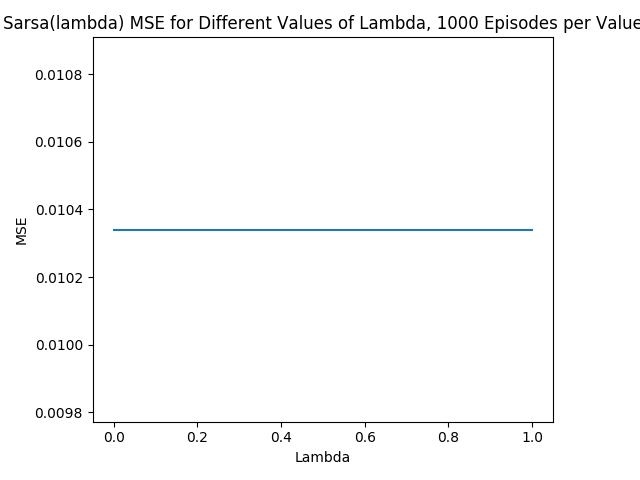
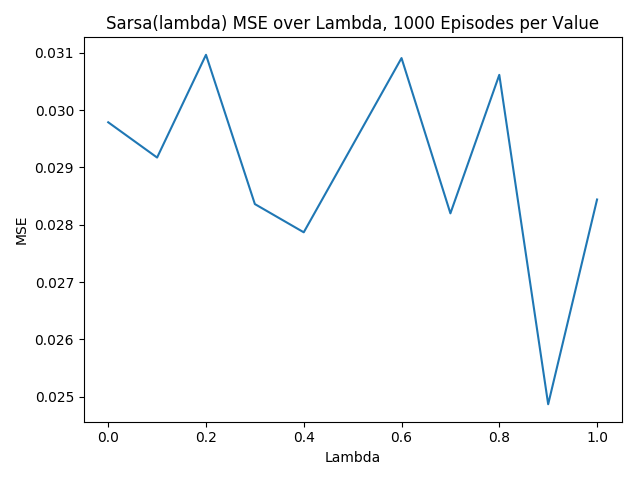
Updating graphs

diff --git a/solutions.py b/solutions.py
@@ -92,7 +92,7 @@ def run_sarsa(num_episodes, n_zero, mc_value_table):
 	ax2.set(
 		xlabel='Lambda',
 		ylabel='MSE',
-		title='Sarsa(lambda) MSE for Different Values of Lambda, 1000 Episodes per Value'
+		title='Sarsa(lambda) MSE over Lambda, 1000 Episodes per Value'
 	)
 
 	plt.show()
